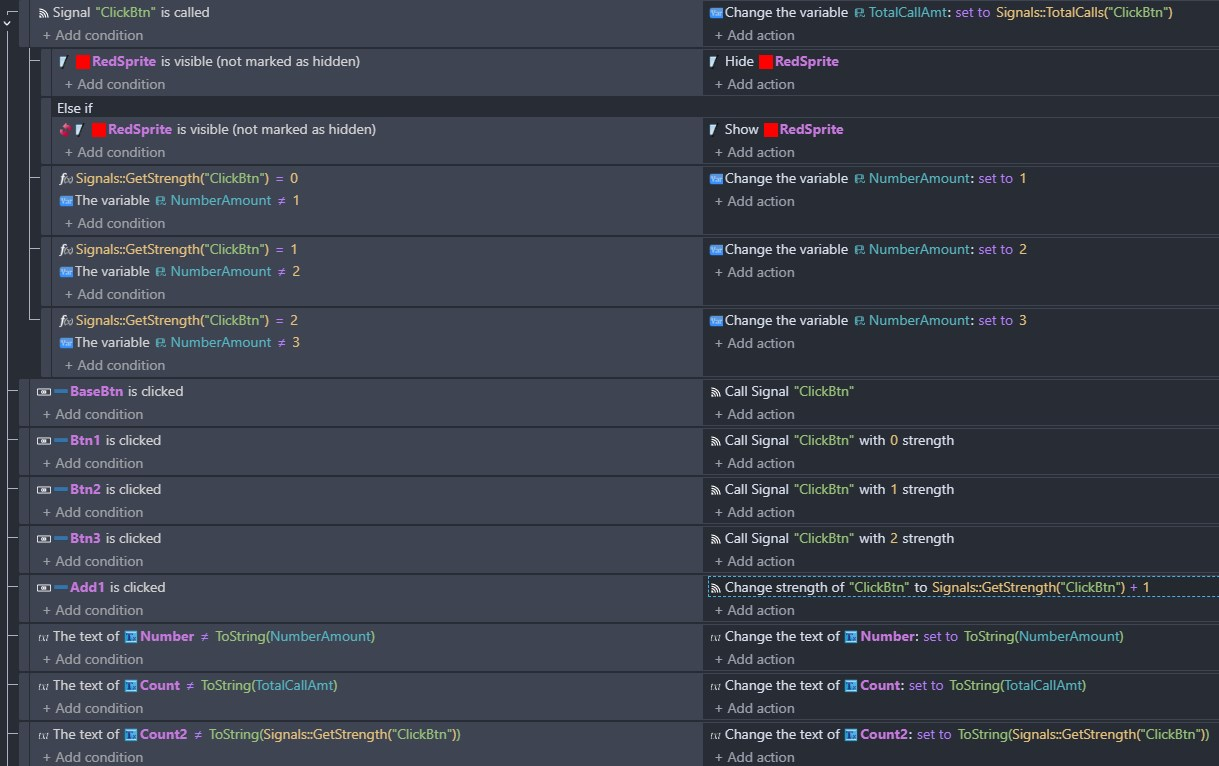
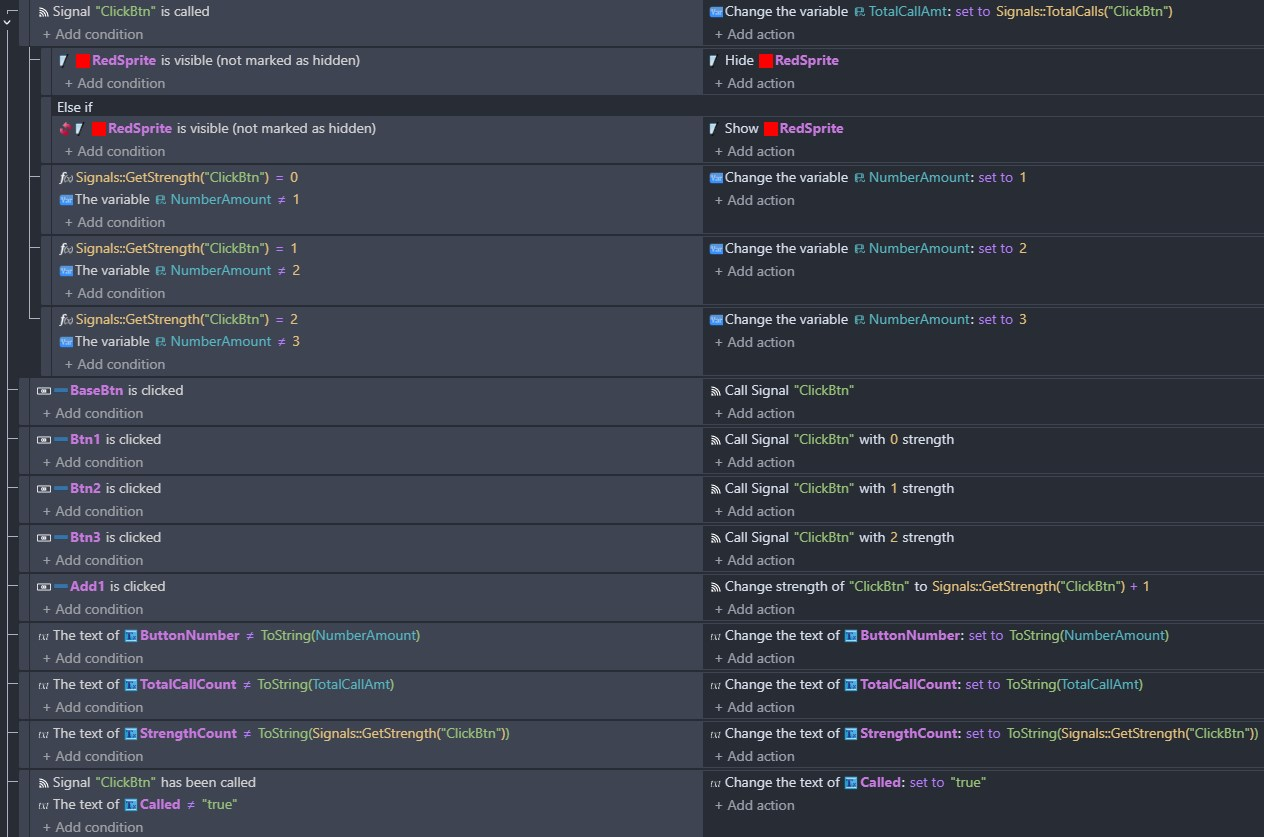
Add Signal Has Been Called Condition

Changed region(s): [[0.0, 0.0, 1.0, 1.0]]

diff --git a/README.MD b/README.MD
@@ -1,18 +1,22 @@
 # Signals  
-  
-#### Adds Call Signal and Call Signal With Strength actions and On Signal Call condition to GDevelop.  
+
+Adds Call Signal, Call Signal With Strength and Change Signal Strength actions.  
+Adds On Signal Call and Signal Has Been Called conditions.  
 This allows for re-use of actions from different conditions.  
 Reduces the need for re-writing the same actions repeatedly.  
 
 Use Call Signal as an action, and then use On Signal Call as a condition, using a Signal Name as the linking parameter.  
 This call can be re-used as many times as you want, will go through the list of actions on the sheet once when called.  
 Works with sub-events, Call Signal can be put before On Signal Call and vice versa.  
+Signal Has Been Called returns true/false if a signal has ever been called or not.  
+A signal will keep its strength until it is changed or there is a new call.  
 
-Each Signal can be called with or without a strength value.  
+Each Signal can be called with or without a strength value, and Change Signal Strength does not call.  
 This strength value can then be compared to another value in the Action Sheet.  
 Checking for a signal call has no affect on strength, these are separate comparisons.  
-Calling without a strength will set its `GetStrength` return value to `-1`  
-Strength value can be checked using `Signals::GetStrength("Signal Name")`<br>
+Calling without a strength will set its strength value to -1.  
+Strength value can be checked using `Signals::GetStrength("Signal Name")`  
+*This returns -1 if the signal does not exist and/or if it was called without a strength value*<br>
 
 ## Example Usage
 
